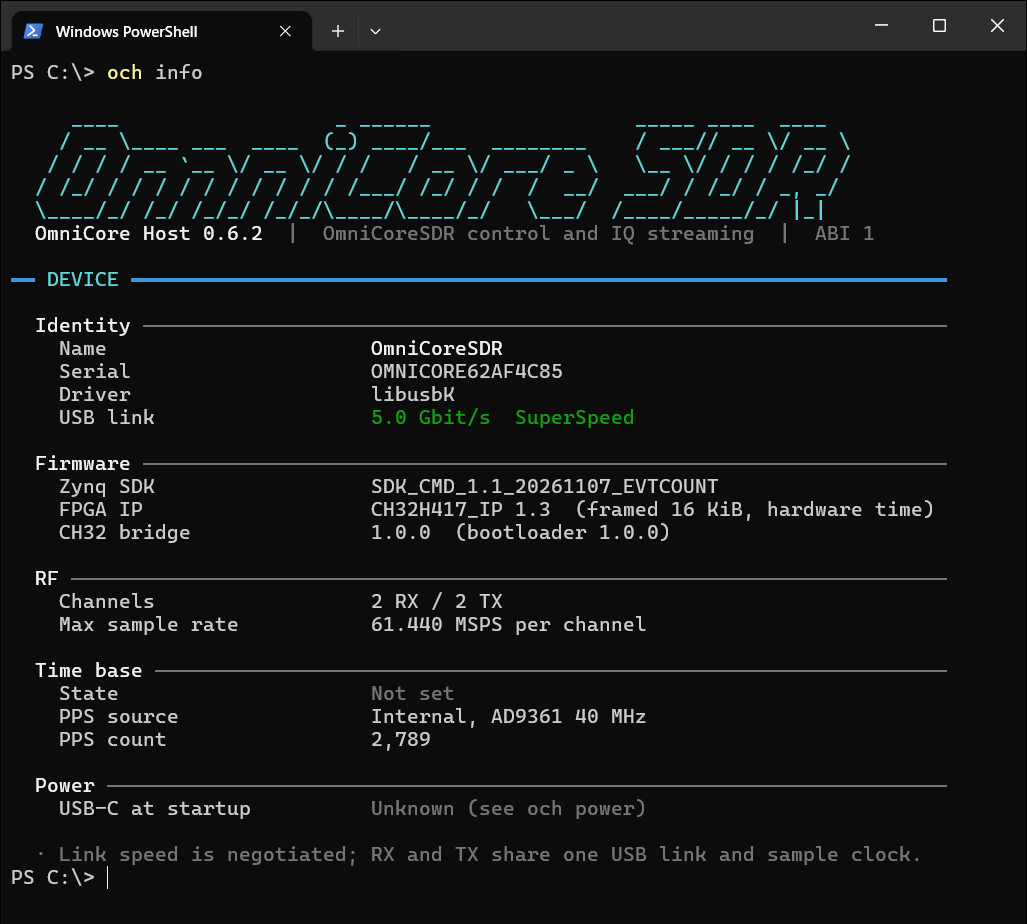
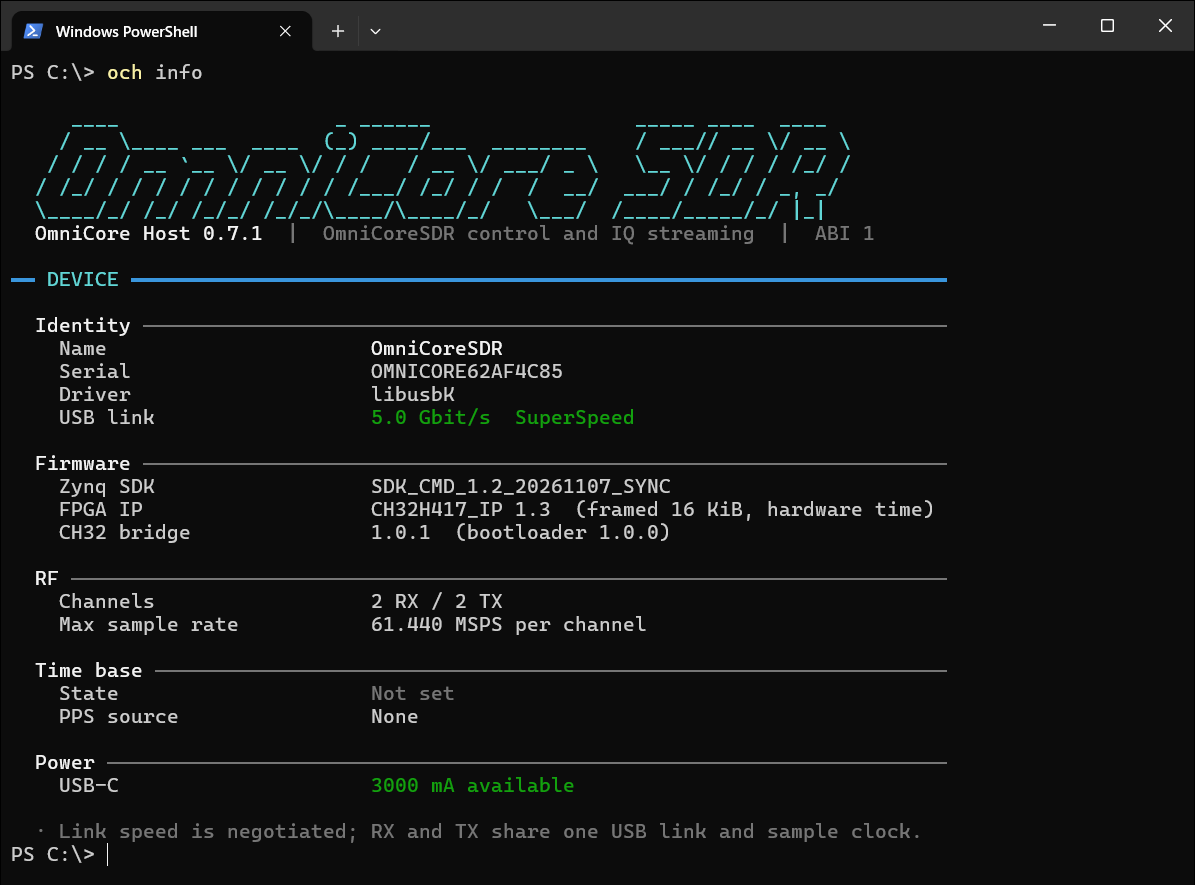
README: och info screenshot from OCH 0.7.1 on USB3 (SDK_CMD_1.2, bridge 1.0.1, USB-C 3 A)

diff --git a/docs/images/README.md b/docs/images/README.md
@@ -17,4 +17,4 @@ README 与 `docs/` 中使用的正式插图，保留 SVG 图表与 PNG 终端图
 | `cli-usb2-bench.png` | 8bit 双通道全双工 5 MSPS、300 秒测试输出 | 300 秒测试记录，经 CLI 显示代码绘制 |
 | `cli-*.png` | 终端输出截图 | 见下文 |
 
-`cli-info.png`、`cli-bench-running.png`、`cli-bench-summary.png` 是 Windows Terminal 的实机截图（OCH 0.6.2，固件 v2026.11.07.1，USB 5 Gbit/s，2026-11-07；bench 为 2T2R 12bit 44 MSPS，TX 衰减 89.75 dB）。其余终端图片按 CLI 显示代码（`src/cli/presentation.hpp`）与 Windows Terminal 默认配色绘制，使用 0.4.x 时期（固件 `SDK_CMD_1.0_20261024_IQ8`）的实测数据，较长的输出以 `...` 标明省略部分。
+`cli-info.png` 是 Windows Terminal 的实机截图（OCH 0.7.1，Zynq `SDK_CMD_1.2_20261107_SYNC`，CH32 桥接 1.0.1，USB 5 Gbit/s，2026-11-08）。`cli-bench-running.png`、`cli-bench-summary.png` 也是实机截图（OCH 0.6.2，固件 v2026.11.07.1，USB 5 Gbit/s，2026-11-07；2T2R 12bit 44 MSPS，TX 衰减 89.75 dB）。其余终端图片按 CLI 显示代码（`src/cli/presentation.hpp`）与 Windows Terminal 默认配色绘制，使用 0.4.x 时期（固件 `SDK_CMD_1.0_20261024_IQ8`）的实测数据，较长的输出以 `...` 标明省略部分。

diff --git a/README.md b/README.md
@@ -81,6 +81,7 @@ och selftest       # 数字接口自检（RX PRBS / TX 回环）
 ```
 
 <p align="center"><img src="docs/images/cli-info.png" width="640" alt="och info：OmniCore SDR 标题、设备身份、三类固件版本、RF 能力、时间基准与电源摘要"></p>
+<p align="center"><sub>实机截图：OCH 0.7.1，USB 3.0 SuperSpeed，Zynq <code>SDK_CMD_1.2_20261107_SYNC</code>，CH32 桥接 1.0.1，USB-C 3000 mA</sub></p>
 
 ### 3. 收发 IQ
 
@@ -173,7 +174,7 @@ och set fan.enabled on
 </tr>
 </table>
 
-以上为实机截图：Windows Terminal，OCH 0.6.2，固件 v2026.11.07.1，2T2R 12bit 44 MSPS。
+以上为实机截图：Windows Terminal，OCH 0.6.2，固件 v2026.11.07.1，2T2R 12bit 44 MSPS（吞吐与 0.7.1 相同）。
 
 退出码：`0` 完成 · `1` 设备/传输错误 · `2` 参数错误 · `3` `bench --fail-fast` 提前结束 · `130` Ctrl+C 中断。性能是否达标请检查 JSON 的 `stability.pass`，而非仅看退出码。
 
